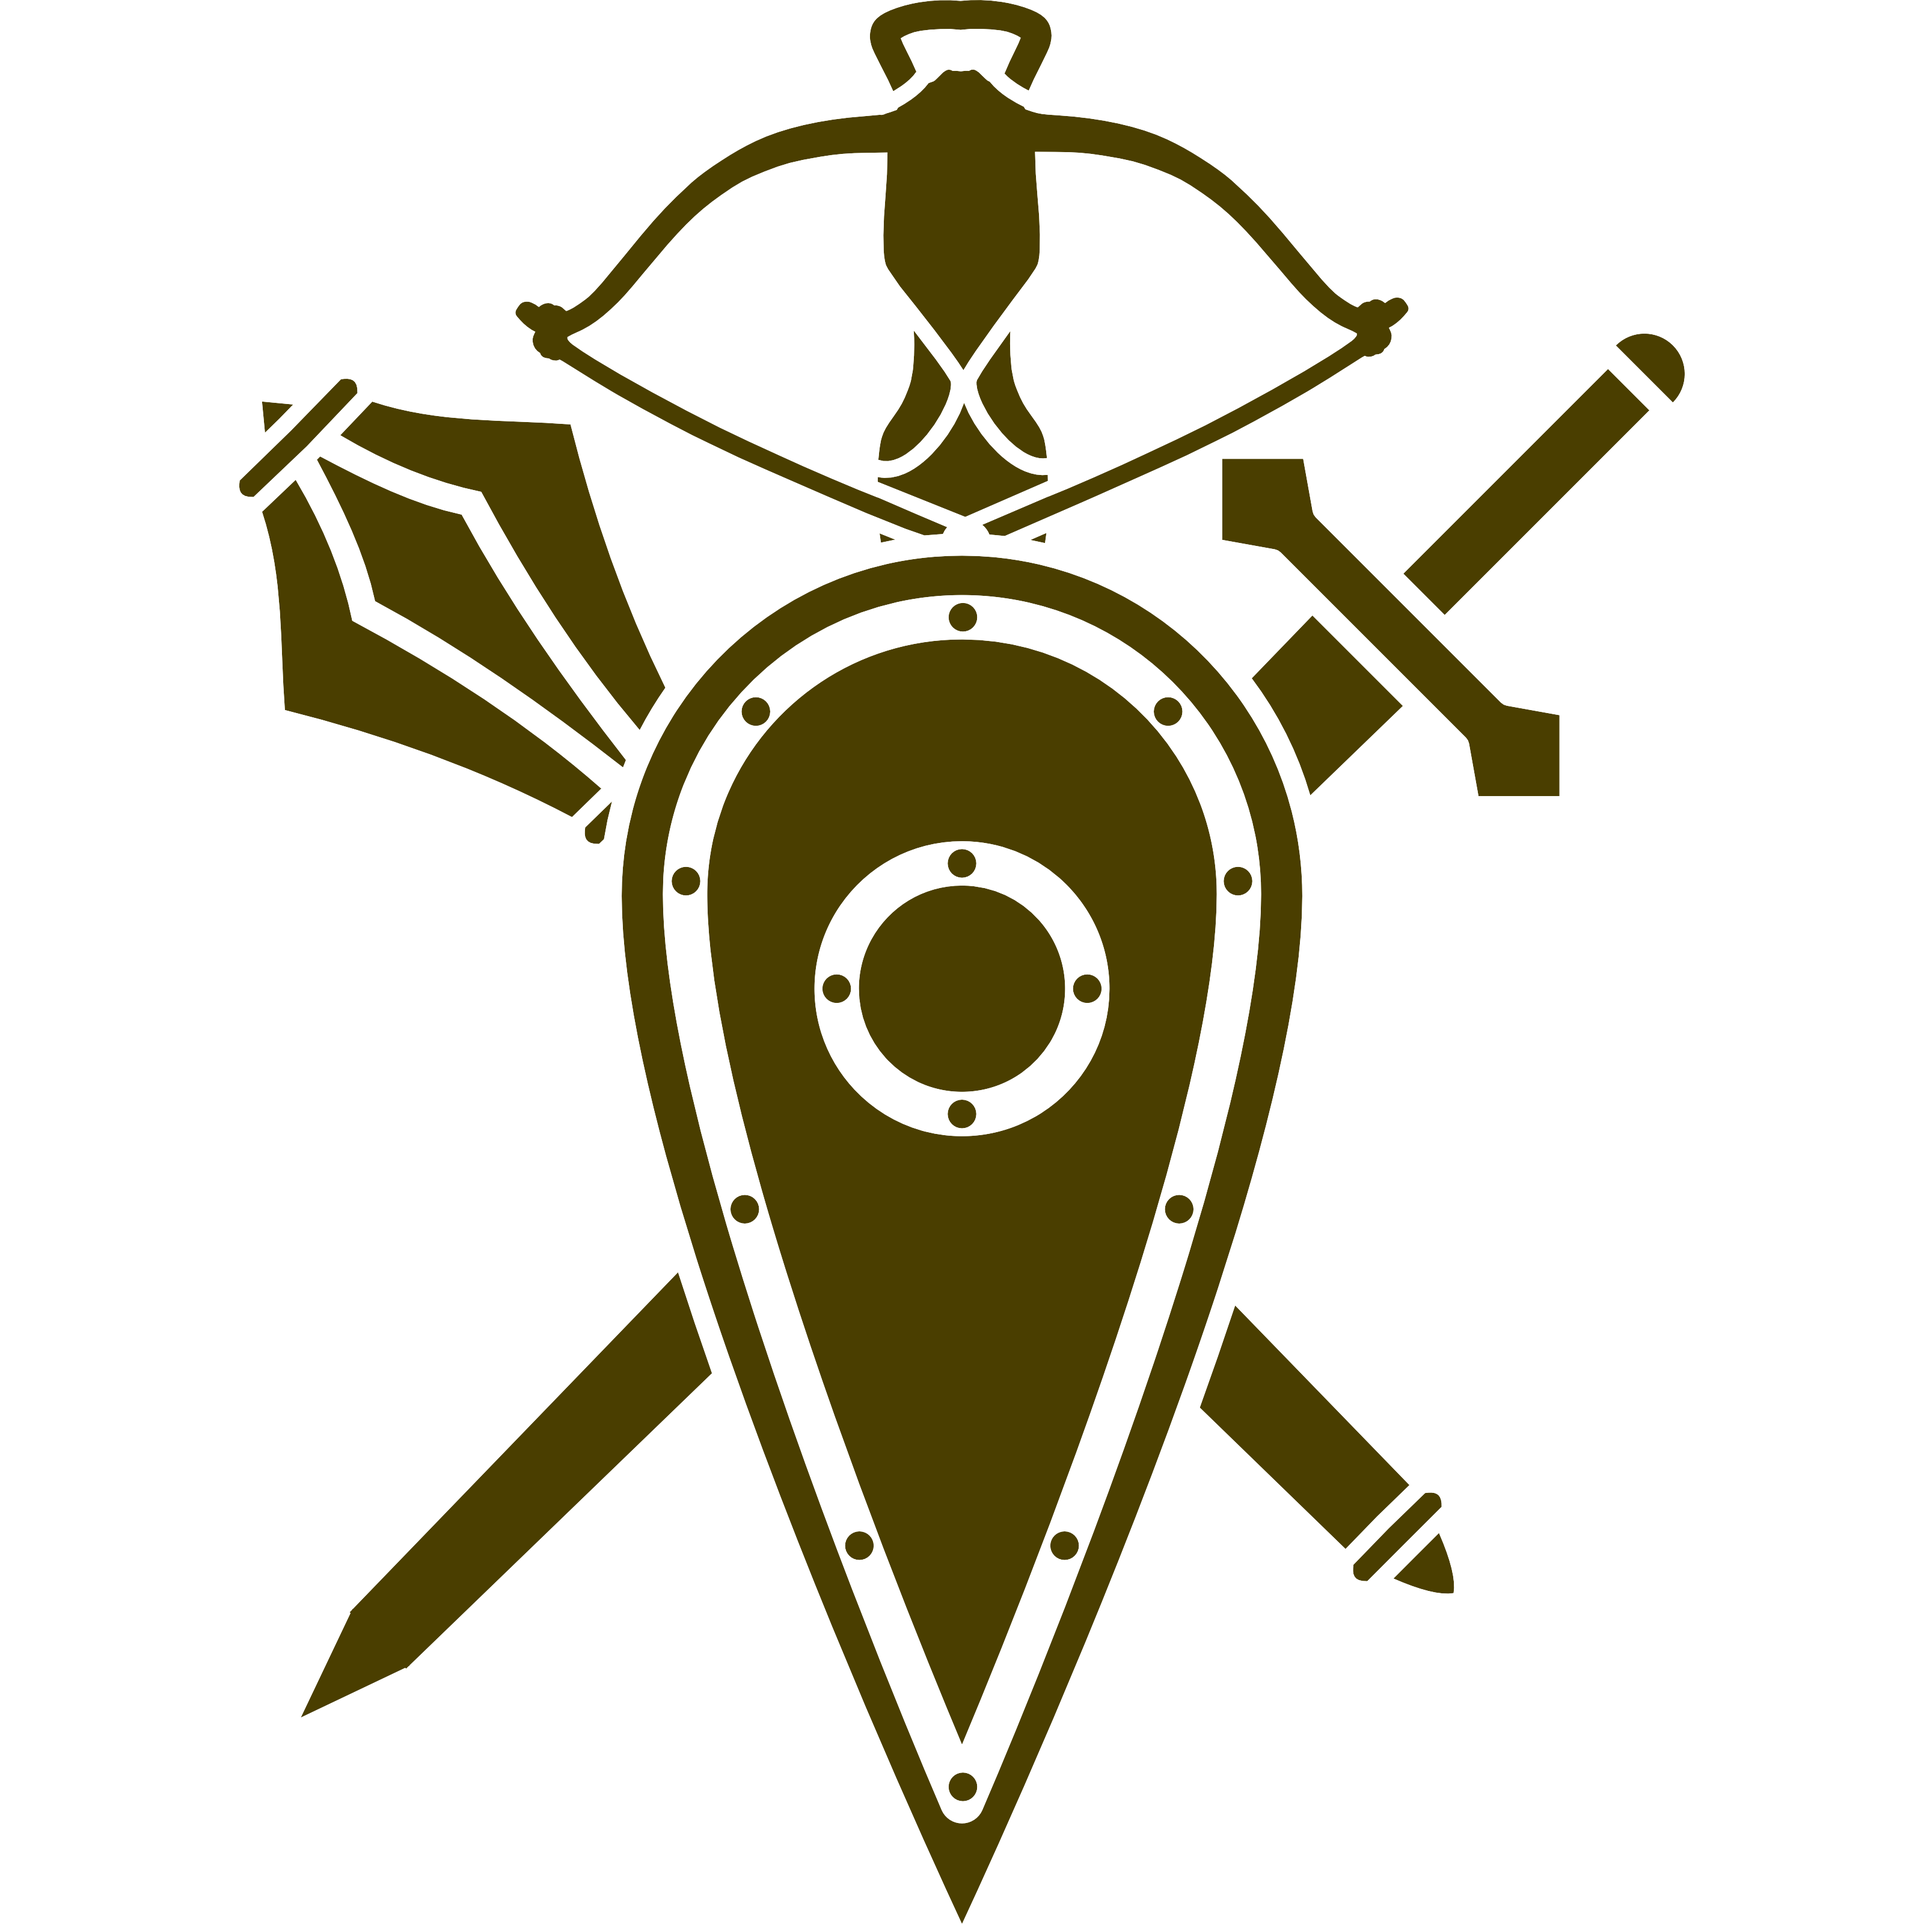
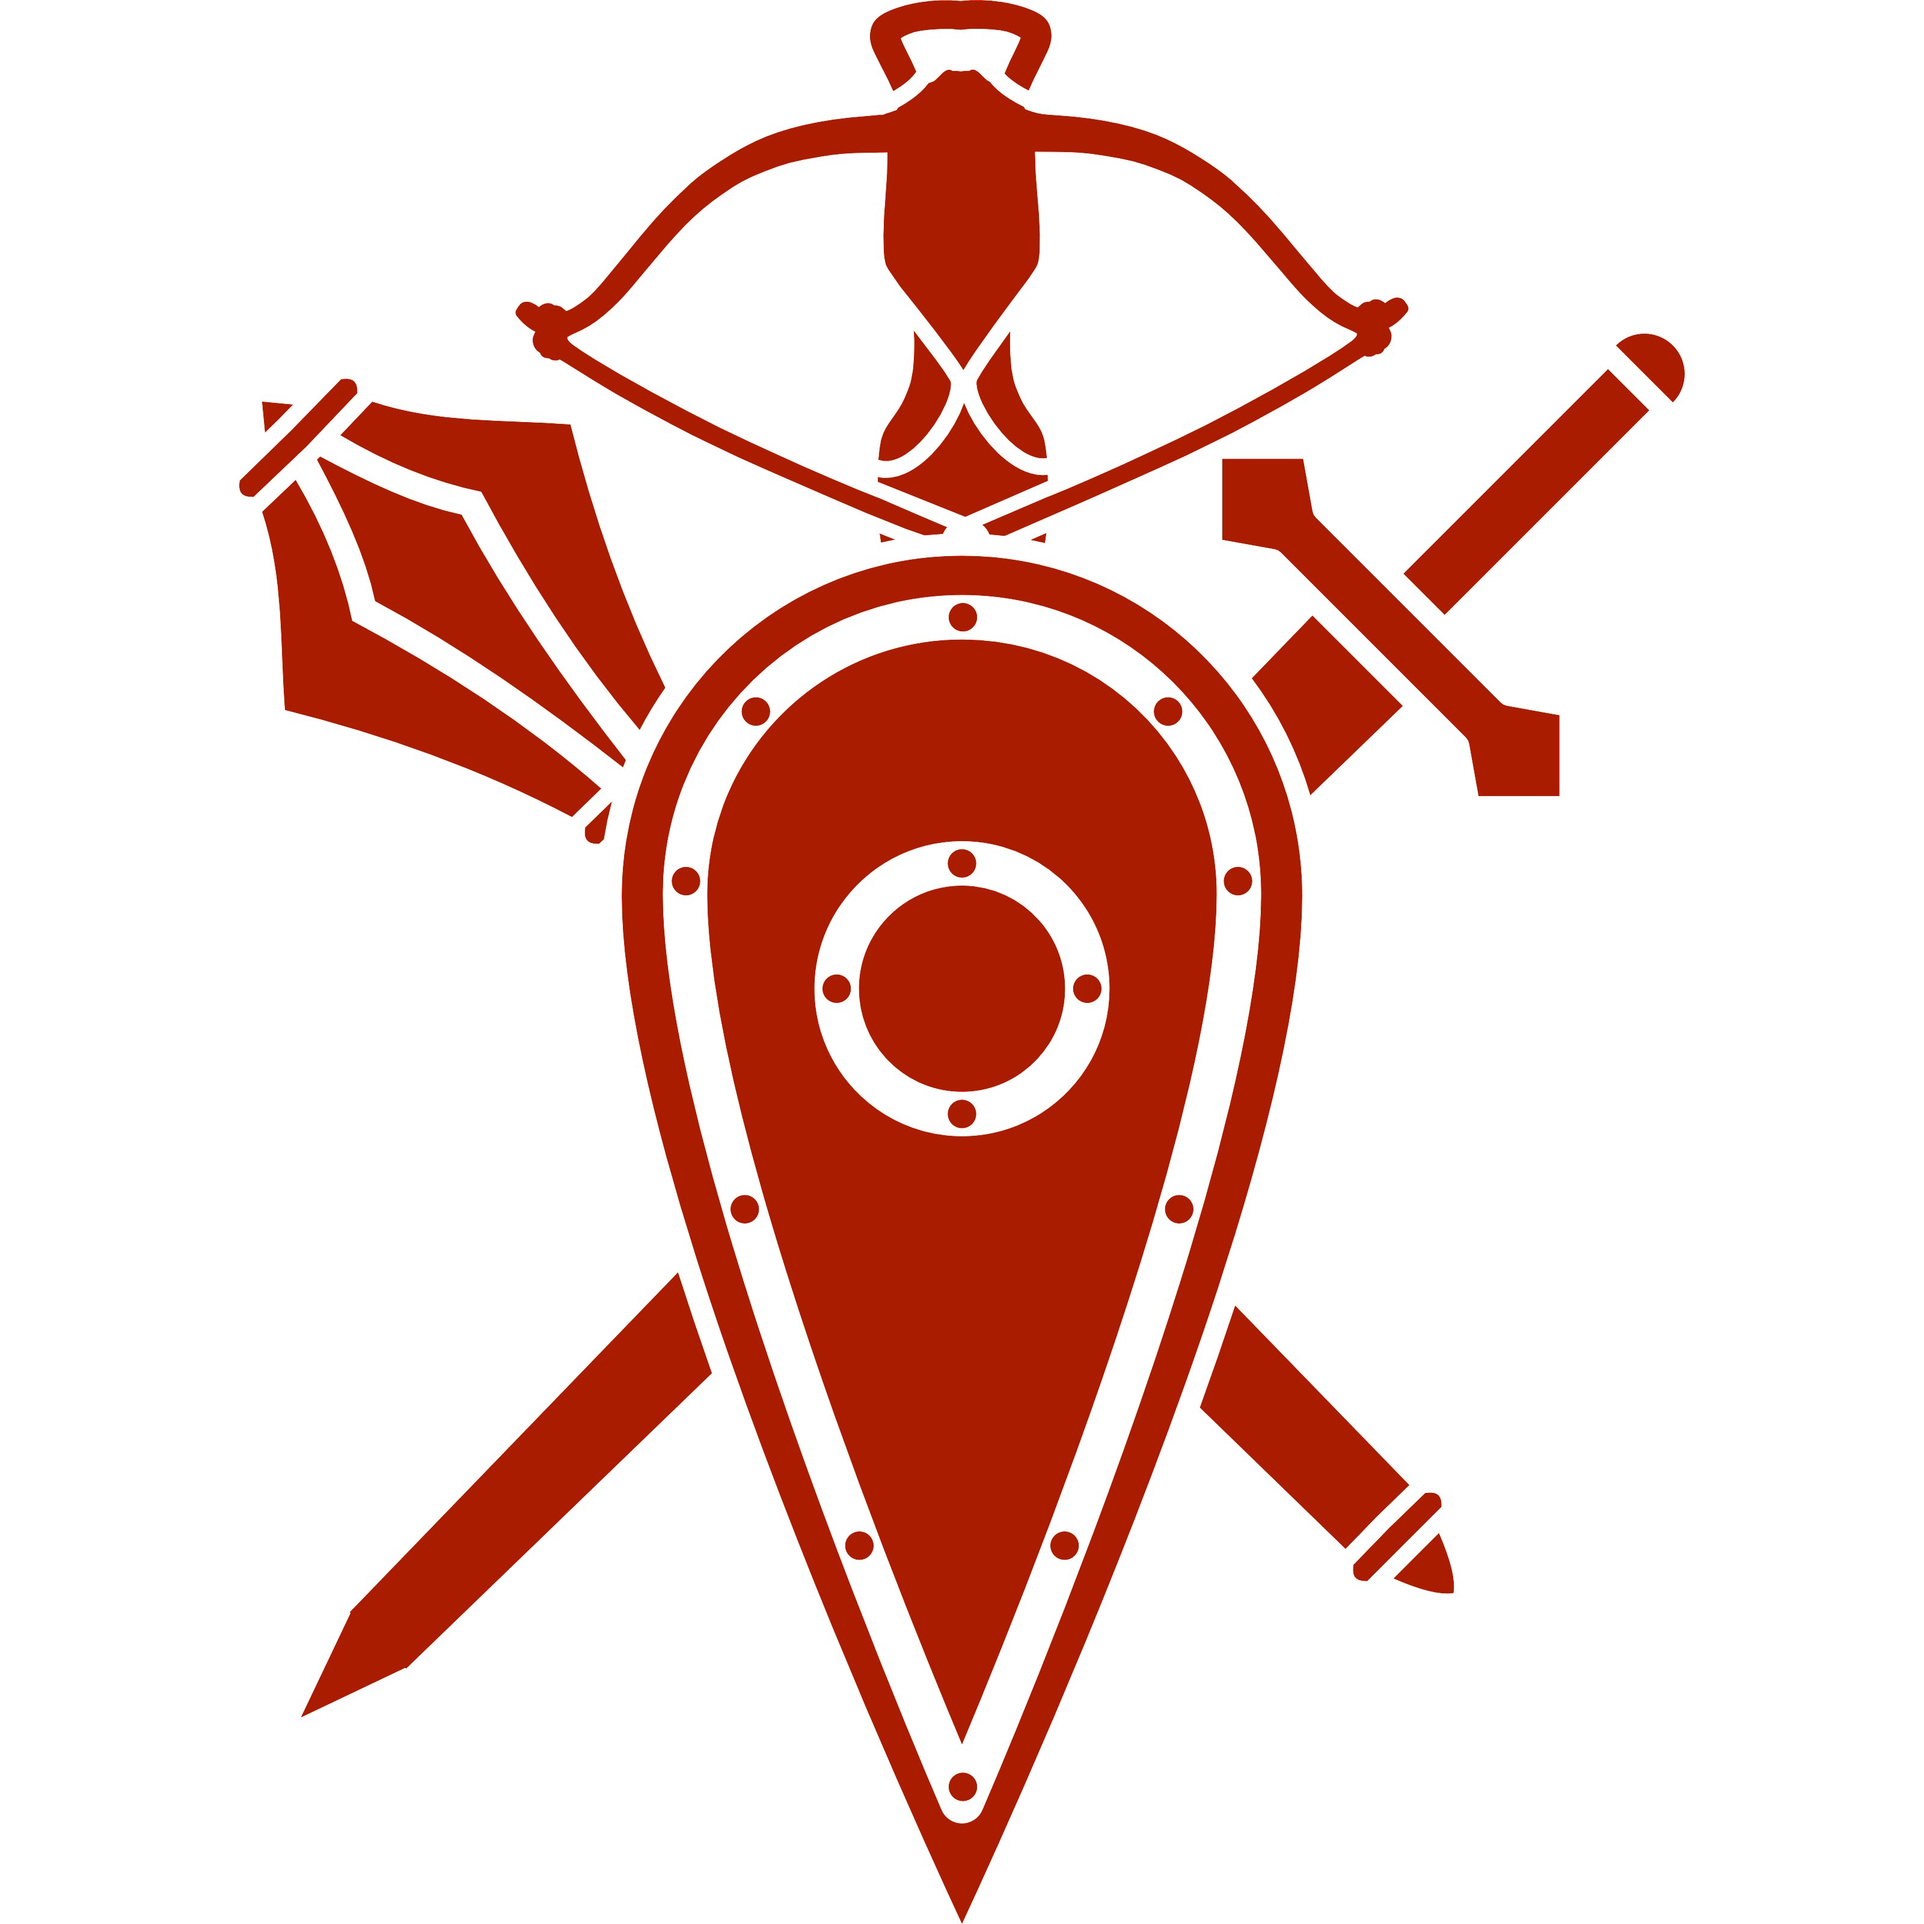
color fix

Changed region(s): [[0.125, 0.0, 0.875, 1.0], [0.625, 0.0938, 0.6875, 0.1562], [0.3125, 0.0938, 0.375, 0.1562]]

diff --git a/commands/Account/Account.js b/commands/Account/Account.js
@@ -182,15 +182,19 @@ module.exports = {
         })
 
         const categoryThumbnailMap = {
-          brute: 'https://raw.githubusercontent.com/OldSociety/monster-hunter-bot/refs/heads/main/assets/bruteA.png', // Example URL for 'monster'
-          spellsword: 'https://raw.githubusercontent.com/OldSociety/monster-hunter-bot/refs/heads/main/assets/spellswordA.png',
-          stealth: 'https://raw.githubusercontent.com/OldSociety/monster-hunter-bot/refs/heads/main/assets/stealthA.png',
+          brute:
+            'https://raw.githubusercontent.com/OldSociety/monster-hunter-bot/refs/heads/main/assets/bruteC.png', // Example URL for 'monster'
+          spellsword:
+            'https://raw.githubusercontent.com/OldSociety/monster-hunter-bot/refs/heads/main/assets/spellswordC.png',
+          stealth:
+            'https://raw.githubusercontent.com/OldSociety/monster-hunter-bot/refs/heads/main/assets/stealthC.png',
           // Add more categories and corresponding URLs as needed
-        };
-        
+        }
+
         // Determine thumbnail based on the category, fallback to user's avatar if no match found
-        const thumbnailUrl = categoryThumbnailMap[category] || interaction.user.displayAvatarURL();
-        
+        const thumbnailUrl =
+          categoryThumbnailMap[category] || interaction.user.displayAvatarURL()
+
         const statsEmbed = new EmbedBuilder()
           .setColor(embedColor)
           .setTitle(
@@ -203,8 +207,7 @@ module.exports = {
           .setFooter({
             text: `Available: 🪙${user.gold} ⚡${user.currency.energy} 🧿${user.currency.gems} 🧪${user.currency.ichor}`,
           })
-          .setThumbnail(thumbnailUrl);
-        
+          .setThumbnail(thumbnailUrl)
 
         if (topCards.length > 0) {
           topCards.forEach((card) => {

diff --git a/utils/embeds/monsterRewardEmbed.js b/utils/embeds/monsterRewardEmbed.js
@@ -10,9 +10,9 @@ const { EmbedBuilder } = require('discord.js')
 function generateMonsterRewardEmbed(monster, category, rarityStars) {
   // Map category to corresponding thumbnail image URL
   const categoryThumbnailMap = {
-    brute: 'https://raw.githubusercontent.com/OldSociety/monster-hunter-bot/refs/heads/main/assets/bruteA.png',
-    spellsword: 'https://raw.githubusercontent.com/OldSociety/monster-hunter-bot/refs/heads/main/assets/spellswordA.png',
-    stealth: 'https://raw.githubusercontent.com/OldSociety/monster-hunter-bot/refs/heads/main/assets/stealthA.png'
+    brute: 'https://raw.githubusercontent.com/OldSociety/monster-hunter-bot/refs/heads/main/assets/bruteC.png',
+    spellsword: 'https://raw.githubusercontent.com/OldSociety/monster-hunter-bot/refs/heads/main/assets/spellswordC.png',
+    stealth: 'https://raw.githubusercontent.com/OldSociety/monster-hunter-bot/refs/heads/main/assets/stealthC.png'
   };
 
   // Determine the thumbnail based on category, fallback to monster image if category not recognized
